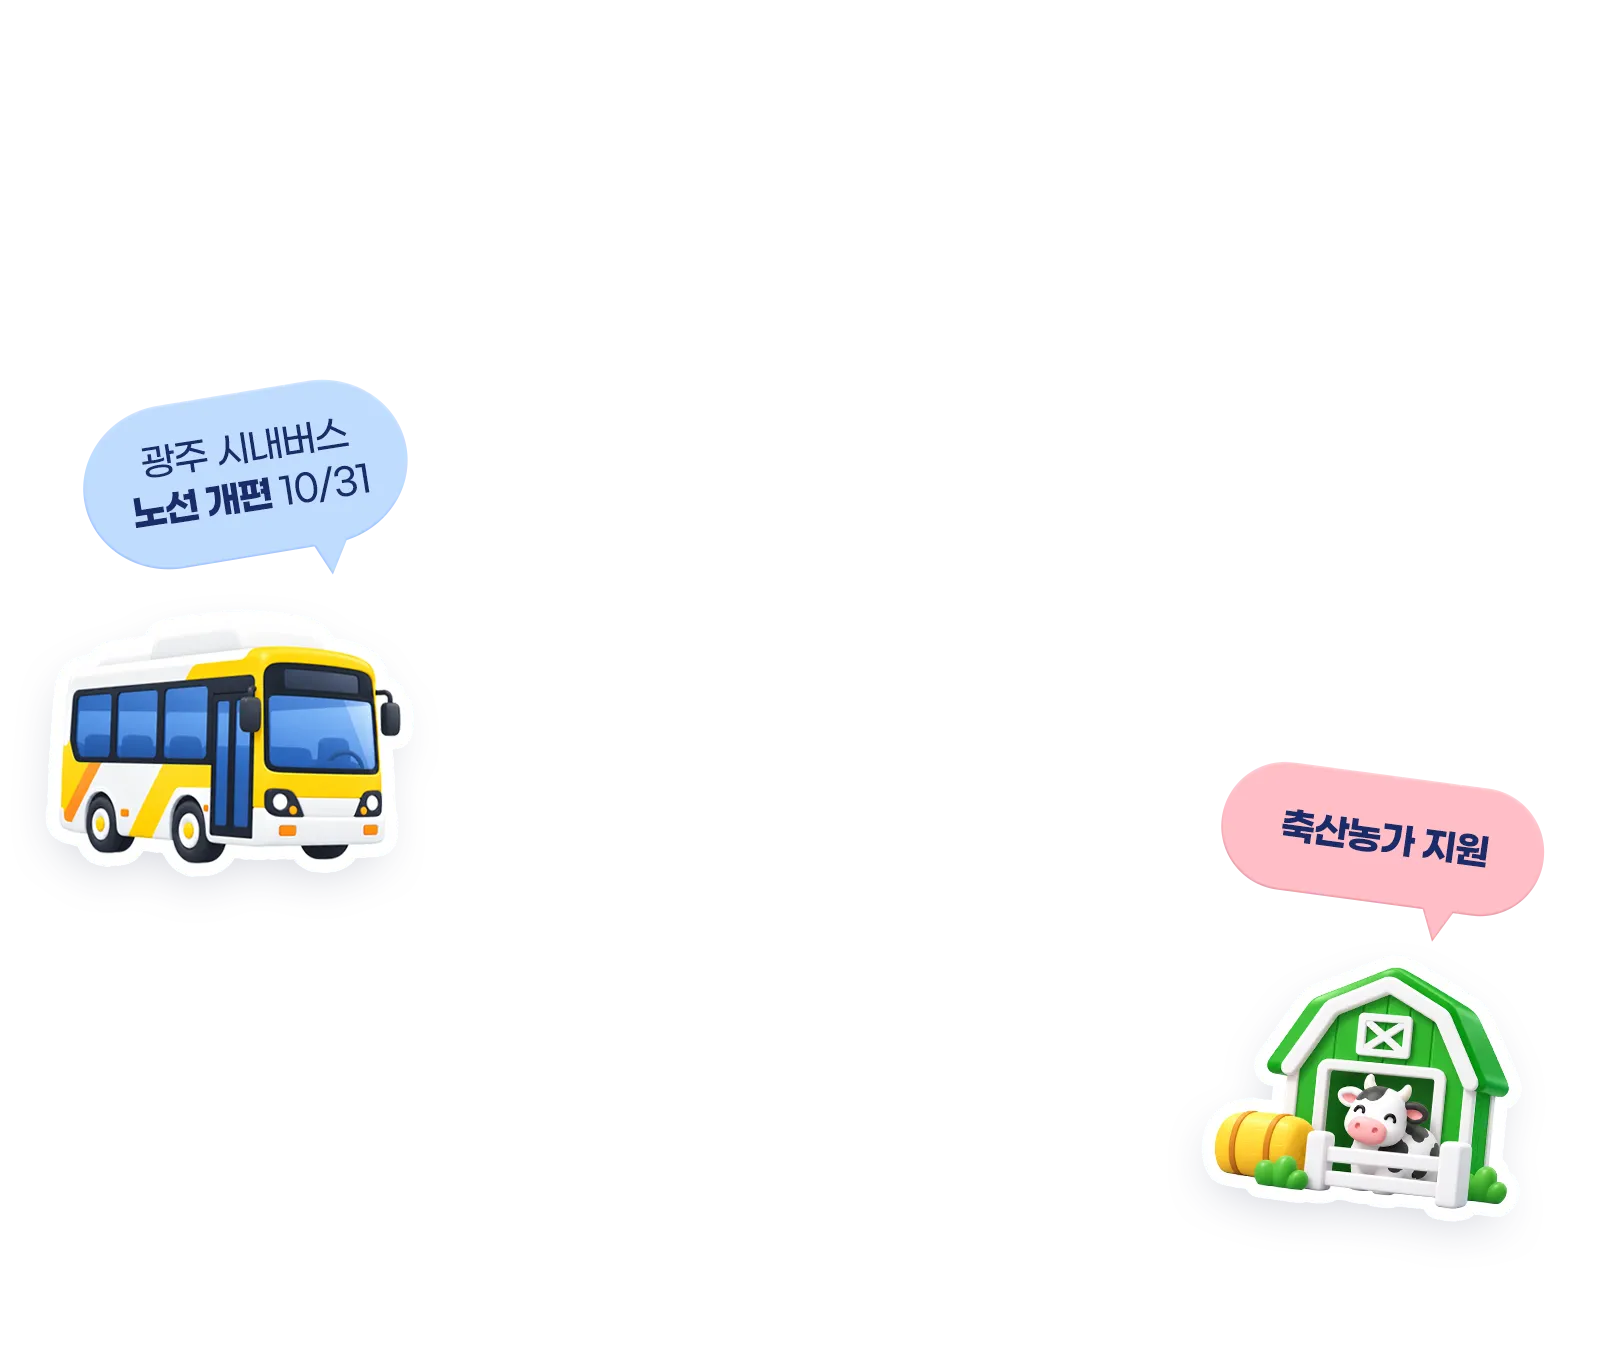
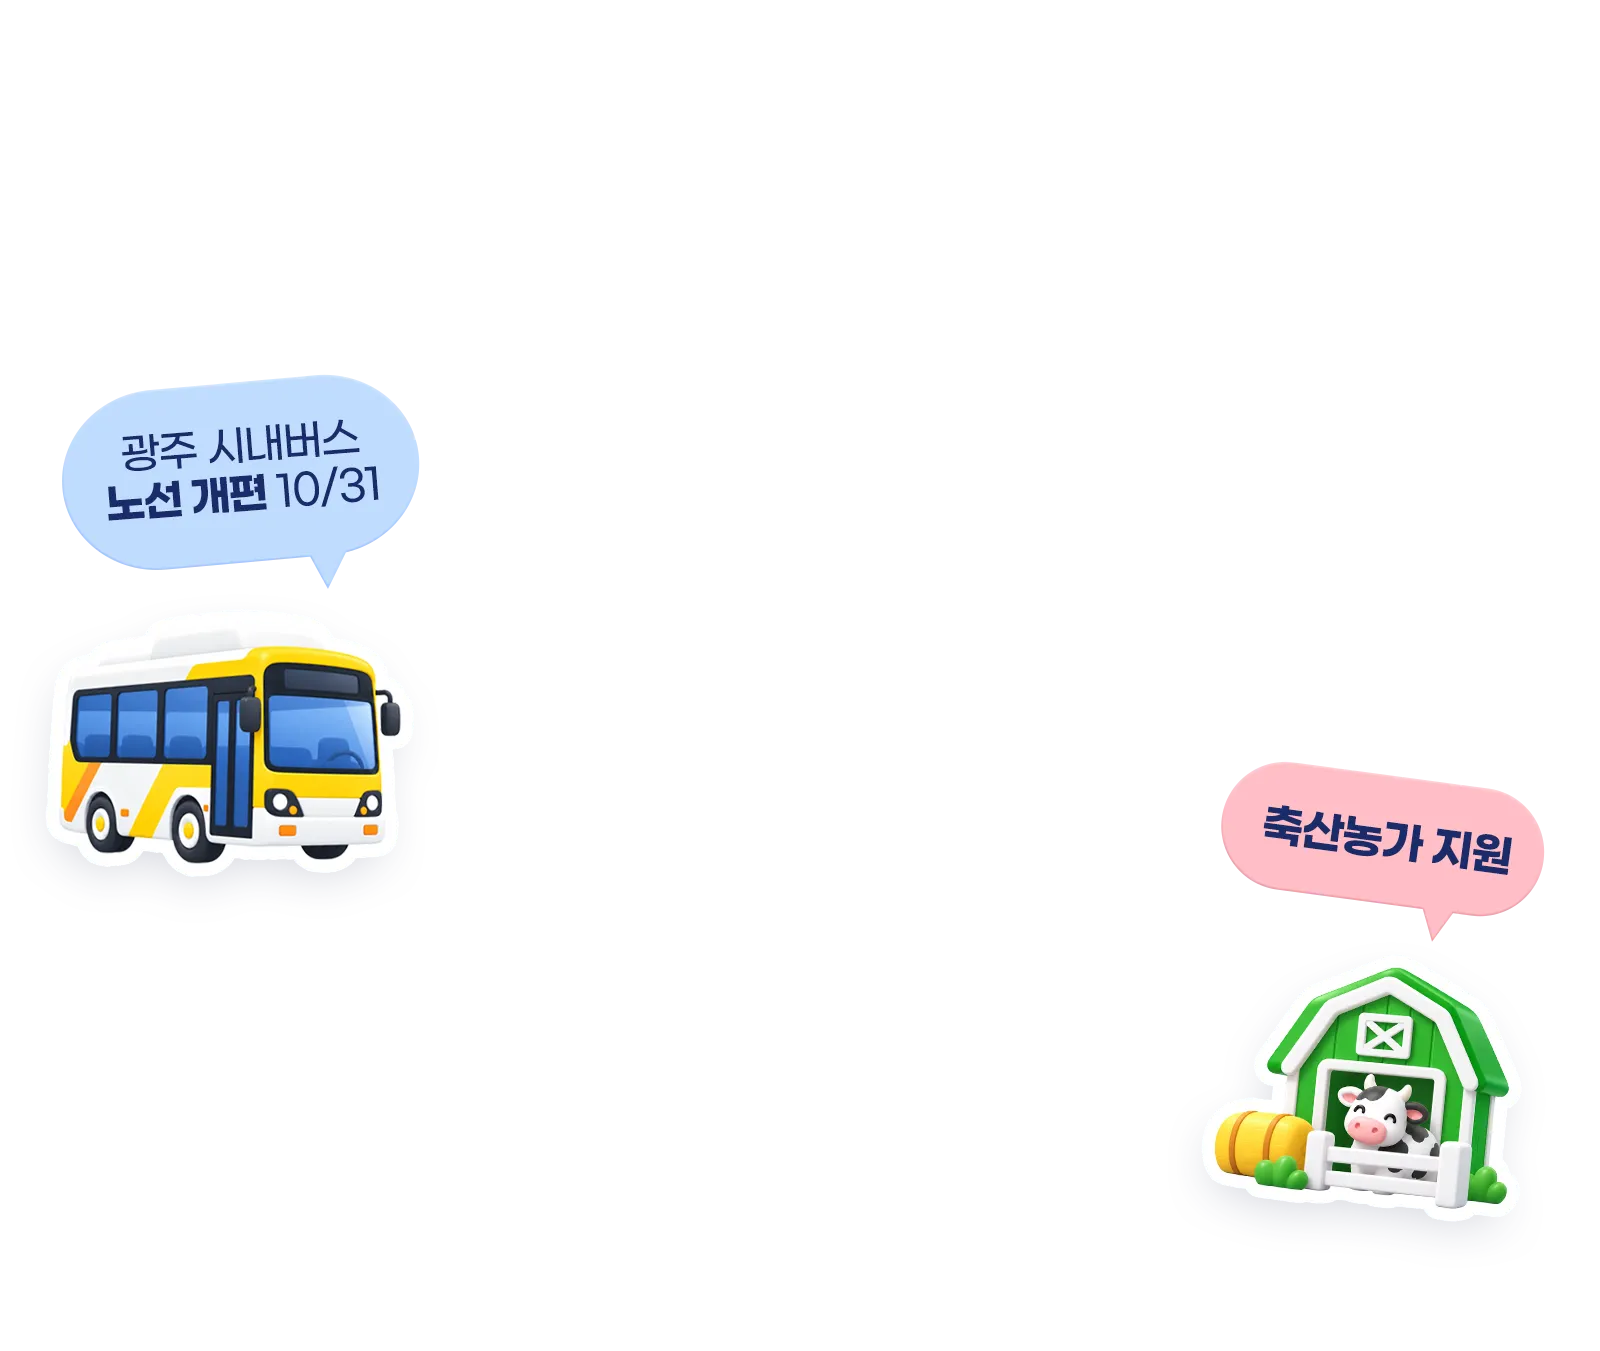
Add files via upload

diff --git a/index.html b/index.html
@@ -350,8 +350,6 @@ if(location.protocol==='file:'||location.hostname.indexOf('github.io')>-1){
 .contents_div .bnf-hm__pc{display:none;pointer-events:none}
 .contents_div .bnf-hm__memo{transform-origin:48.94% 18.5%}   /* 압정 위치 */
 /* 회전·확대 축 : Safari 대응으로 var() 대신 조각마다 직접 지정 (Safari가 var()로 받은 transform-origin을 무시하면 화면 가운데를 축으로 돌아 크게 흔들림) */
-.contents_div .bnf-hm__clk,
-.contents_div .bnf-hm__clk > .bnf-hm__in{transform-origin:47.31% 30.57%}
 .contents_div .bnf-hm__t2,
 .contents_div .bnf-hm__t2 > .bnf-hm__in{transform-origin:50.94% 46.48%}
 .contents_div .bnf-hm__t3,
@@ -367,7 +365,12 @@ if(location.protocol==='file:'||location.hostname.indexOf('github.io')>-1){
 
 /* 조각 영역 — inset(위 오른쪽 아래 왼쪽) / polygon : 원본 1600×1351 기준 */
 .contents_div .bnf-hm__t1a{--clip:inset(25.17% 55.75% 63.58% 30.94%)}                          /* 이번 주 */
-.contents_div .bnf-hm__clk{--clip:inset(24.8% 49.38% 64.47% 44.25%);--o:47.31% 30.57%}          /* 알람시계 */
+/* 알람시계 : 프레임 전체가 아니라 시계 크기의 작은 상자를 돌린다
+   (프레임 전체 크기 요소를 먼 축으로 돌리면 iOS Safari에서 반복 회차부터 축이 어긋나 좌우로 크게 휘둘림)
+   상자 = 원본 x 708~810 · y 335~480 / 이미지는 상자 기준으로 원본 위치에 맞춰 크게 깔고 clip-path로 시계만 남긴다 */
+.contents_div .bnf-hm__pc.bnf-hm__clk{inset:auto;left:44.25%;top:24.8%;width:6.375%;height:10.733%;transform-origin:48.04% 53.79%}
+.contents_div .bnf-hm__clk .bnf-hm__ring{position:absolute;inset:0;transform-origin:48.04% 53.79%}   /* 시계 중심(원본 757,413) */
+.contents_div .bnf-hm .bnf-hm__clk img{inset:auto;left:-694.12%;top:-231.03%;width:1568.63%;height:931.72%;clip-path:inset(24.8% 49.38% 64.47% 44.25%)}
 .contents_div .bnf-hm__t1b{--clip:inset(25.17% 31.25% 63.58% 50.63%)}                          /* 챙겨야 할 */
 .contents_div .bnf-hm__t2{--clip:polygon(26.88% 35.53%,75% 35.53%,75% 52.55%,26.88% 57.74%);--o:50.94% 46.48%}   /* 전남광주 */
 .contents_div .bnf-hm__t3{--clip:polygon(26.88% 57.74%,75% 52.55%,75% 73.28%,26.88% 73.28%);--o:52.5% 63.66%}    /* 소식! */
@@ -392,7 +395,7 @@ if(location.protocol==='file:'||location.hostname.indexOf('github.io')>-1){
 .contents_div.is-bnf-hm-play .bnf-hm__t1a{animation:bnfHmDrop .5s cubic-bezier(.22,.68,.36,1) 0.95s both}
 .contents_div.is-bnf-hm-play .bnf-hm__t1b{animation:bnfHmDrop .5s cubic-bezier(.22,.68,.36,1) 1.05s both}
 .contents_div.is-bnf-hm-play .bnf-hm__clk{animation:bnfHmPop .55s cubic-bezier(.34,1.7,.64,1) 1.1s both}
-.contents_div.is-bnf-hm-play .bnf-hm__clk .bnf-hm__in{animation:bnfHmRing 4s ease-in-out 2.05s infinite}
+.contents_div.is-bnf-hm-play .bnf-hm__clk .bnf-hm__ring{animation:bnfHmRing 4s ease-in-out 2.05s infinite}
 /* ④ 전남광주 · 소식! */
 .contents_div.is-bnf-hm-play .bnf-hm__t2{animation:bnfHmStamp .55s linear 1.55s both}
 .contents_div.is-bnf-hm-play .bnf-hm__t3{animation:bnfHmStamp .55s linear 1.8s both}
@@ -1071,7 +1074,7 @@ if(location.protocol==='file:'||location.hostname.indexOf('github.io')>-1){
              width="1600" height="1351" fetchpriority="high" loading="eager" decoding="async" alt="">
         <div class="bnf-hm__pc bnf-hm__t1a" aria-hidden="true"><div class="bnf-hm__in"><img data-ly="title" alt=""></div></div>
         <div class="bnf-hm__pc bnf-hm__t1b" aria-hidden="true"><div class="bnf-hm__in"><img data-ly="title" alt=""></div></div>
-        <div class="bnf-hm__pc bnf-hm__clk" aria-hidden="true"><div class="bnf-hm__in"><img data-ly="title" alt=""></div></div>
+        <div class="bnf-hm__pc bnf-hm__clk" aria-hidden="true"><div class="bnf-hm__ring"><img data-ly="title" alt=""></div></div>
         <div class="bnf-hm__pc bnf-hm__t2" aria-hidden="true"><div class="bnf-hm__in"><img data-ly="title" alt=""></div></div>
         <div class="bnf-hm__pc bnf-hm__t3" aria-hidden="true"><div class="bnf-hm__in"><img data-ly="title" alt=""></div></div>
         <img class="bnf-hm__deco" data-layer="deco"
